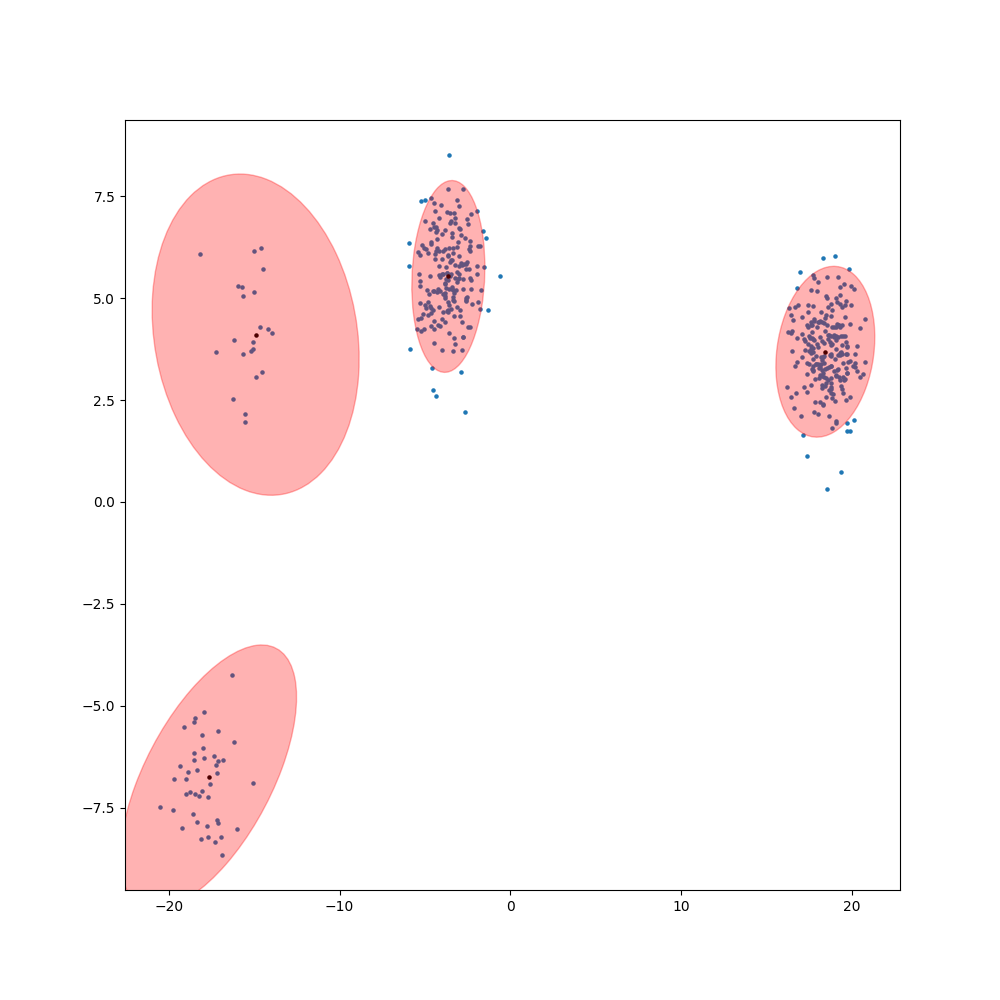
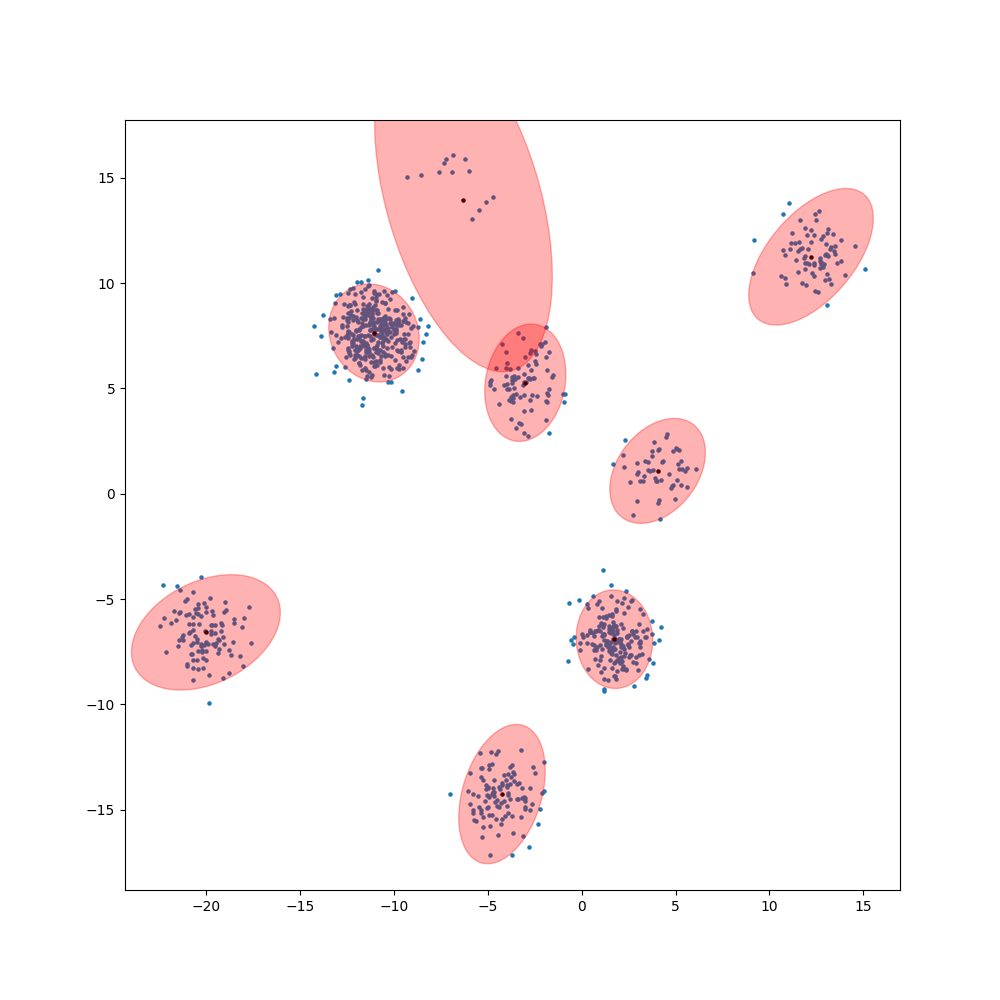
Kmeans initialization

diff --git a/pyInference/mixtureOfGaussians/gmm_cavi.py b/pyInference/mixtureOfGaussians/gmm_cavi.py
@@ -15,21 +15,26 @@ import numpy as np
 from numpy.linalg import det, inv
 from scipy.special import gammaln, multigammaln, psi
 
+from sklearn.cluster import KMeans
 from viz import create_cov_ellipse
 
 parser = argparse.ArgumentParser(description='CAVI in mixture of gaussians')
 parser.add_argument('-maxIter', metavar='maxIter', type=int, default=100)
 parser.add_argument('-dataset', metavar='dataset', type=str,
-                    default='../../data/k4/data_k4_500.pkl')
-parser.add_argument('-k', metavar='k', type=int, default=4)
+                    default='../../data/k8/data_k8_1000.pkl')
+parser.add_argument('-k', metavar='k', type=int, default=8)
 parser.add_argument('--verbose', dest='verbose', action='store_true')
 parser.add_argument('--no-verbose', dest='verbose', action='store_false')
 parser.set_defaults(verbose=True)
+parser.add_argument('--randomInit', dest='randomInit', action='store_true')
+parser.add_argument('--no-randomInit', dest='randomInit', action='store_false')
+parser.set_defaults(randomInit=False)
 args = parser.parse_args()
 
 MAX_ITERS = args.maxIter
 K = args.k
 VERBOSE = args.verbose
+RANDOM_INIT = args.randomInit
 THRESHOLD = 1e-10
 PATH_IMAGE = 'img/'
 
@@ -232,6 +237,17 @@ def plot_iteration(ax_spatial, circs, sctZ, lambda_m,
     return ax_spatial, circs, sctZ
 
 
+def init_kmeans(xn, N, K):
+    """
+    Init points assignations (lambda_phi) with Kmeans clustering
+    """
+    lambda_phi = 0.1 / (K - 1) * np.ones((N, K))
+    labels = KMeans(K).fit(xn).predict(xn)
+    for i, lab in enumerate(labels):
+        lambda_phi[i, lab] = 0.9
+    return lambda_phi
+
+
 def main():
     # Get data
     with open('{}'.format(args.dataset), 'r') as inputfile:
@@ -250,7 +266,8 @@ def main():
     beta_o = np.array([0.7])
 
     # Variational parameters
-    lambda_phi = np.random.dirichlet(alpha_o, N)
+    lambda_phi = np.random.dirichlet(alpha_o, N) if RANDOM_INIT \
+        else init_kmeans(xn, N, K)
     lambda_pi = np.zeros(shape=K)
     lambda_beta = np.zeros(shape=K)
     lambda_nu = np.zeros(shape=K)
